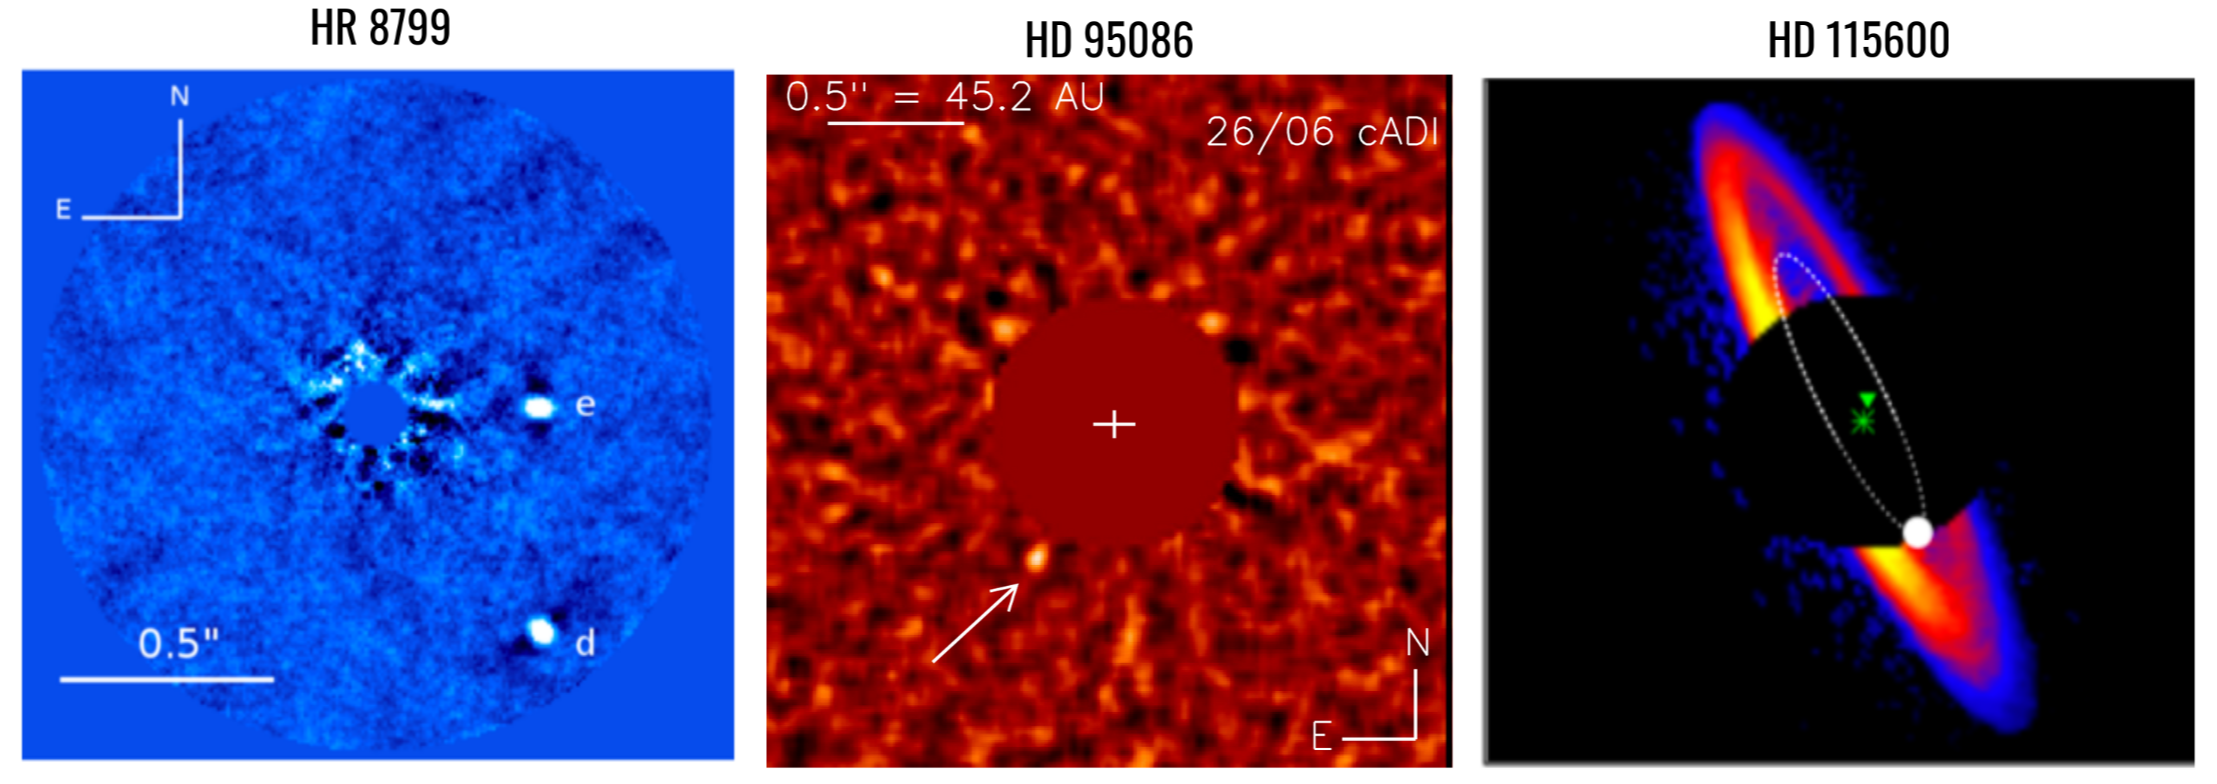
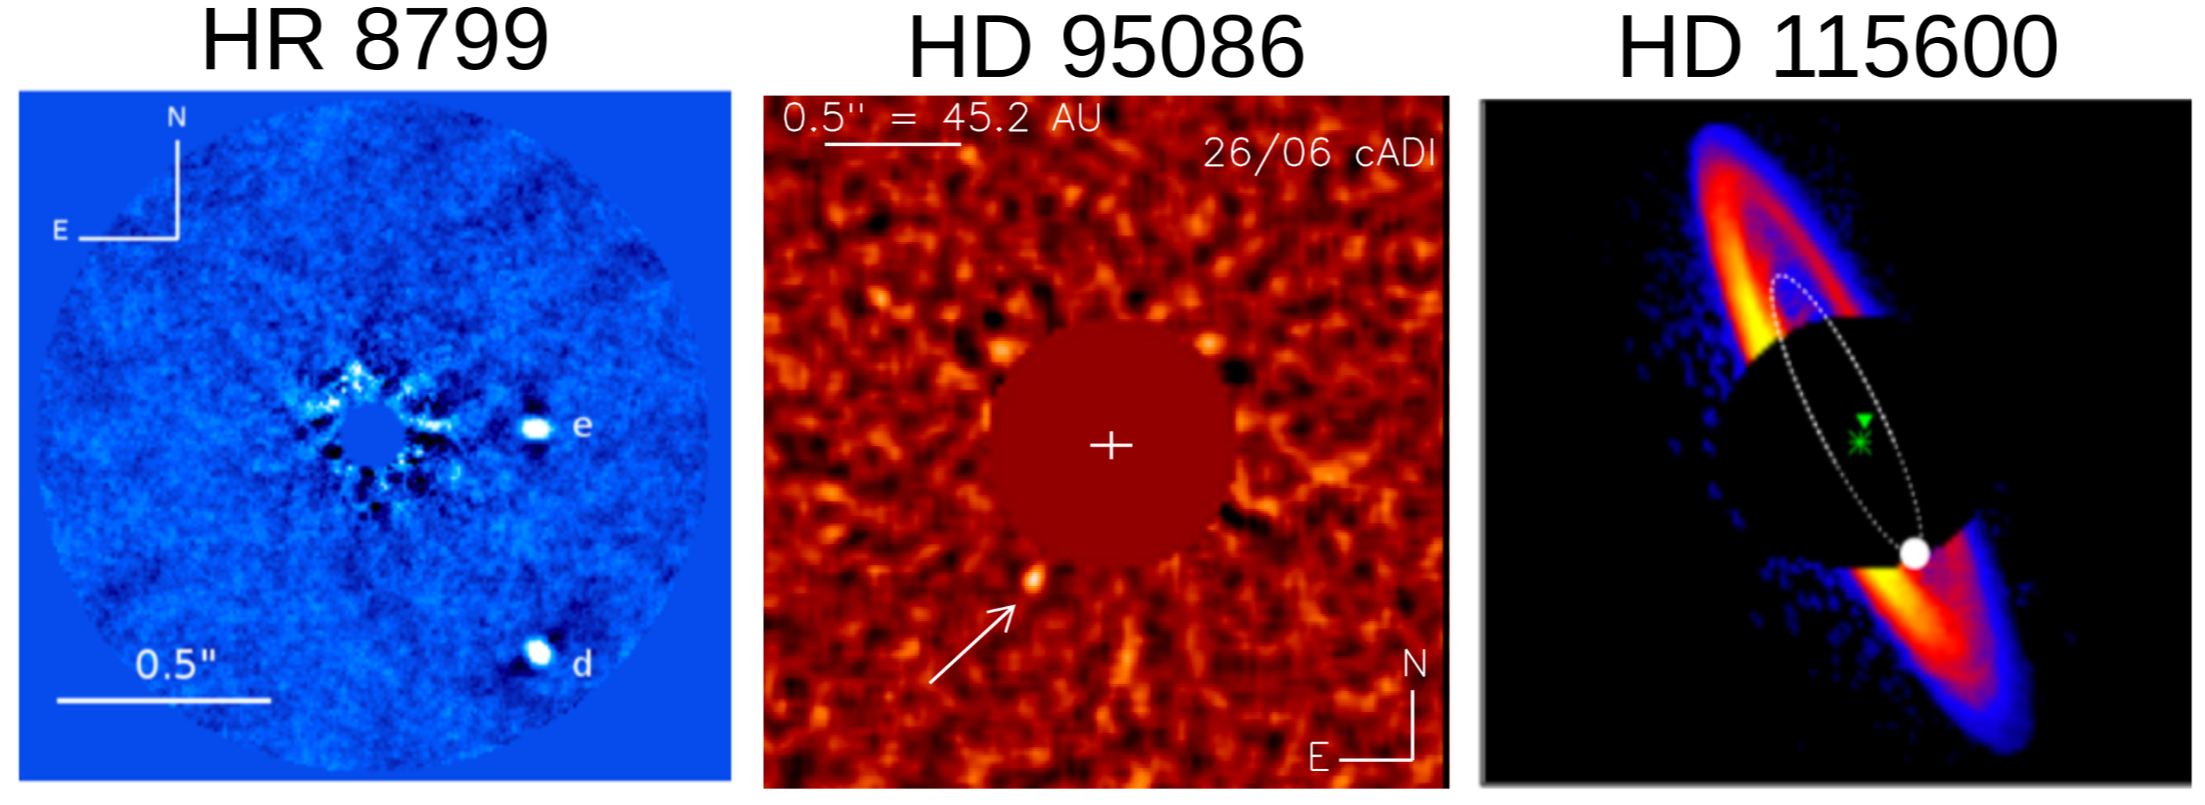
Fix fonts for ami targets figure

diff --git a/index.html b/index.html
@@ -573,12 +573,13 @@
               <li>Opportunity to independently confirm 4 of these companions for the first time</li>
               <li>Giant planets a few times more massive than Jupiter will demonstrate the feasibility of more challenging targets</li>
             </ul>
-            <li>Once the technique has been demonstrated: observe three systems suspected to host undetected giant planets at short separations</li>
+            <li>Once the technique has been demonstrated: <b>observe three systems suspected to host undetected giant planets at short separations</b></li>
             <ul>
               <li>Synergy with JWST/NIRISS Aperture Masking Interferometry GTO program</li>
             </ul>
           </ul>
           <p align="center"><img class="click-img" data-toggle="modal" data-target="#massModels" src='https://raw.githubusercontent.com/vandalt/casca2022/main/figures/ami_targets.png' width='100%' height='auto'></p>
+          <!-- <p align="center"><img class="click-img" data-toggle="modal" data-target="#massModels" src='./figures/ami_targets.png' width='100%' height='auto'></p> -->
           <p class='caption'><em>Figure: Ground-based observations of the three systems suspected to have inner companions we will target with PISCO. Figures from Zurlo et al. (2016), Rameau et al. (2013) and Currie et al. (2015))</em></p>
           <!-- <p><img class="click-img" data-toggle="modal" data-target="#massModels" src='https://raw.githubusercontent.com/vandalt/exo3-figures/master/mass_dist.png' width='100%' height='auto'></p> -->
           <!-- <p class='caption'><em>Figure: Mass distribution of &beta; Pic b from our dynamical measurement compared to predictions from evolutionary models.</em></p> -->
